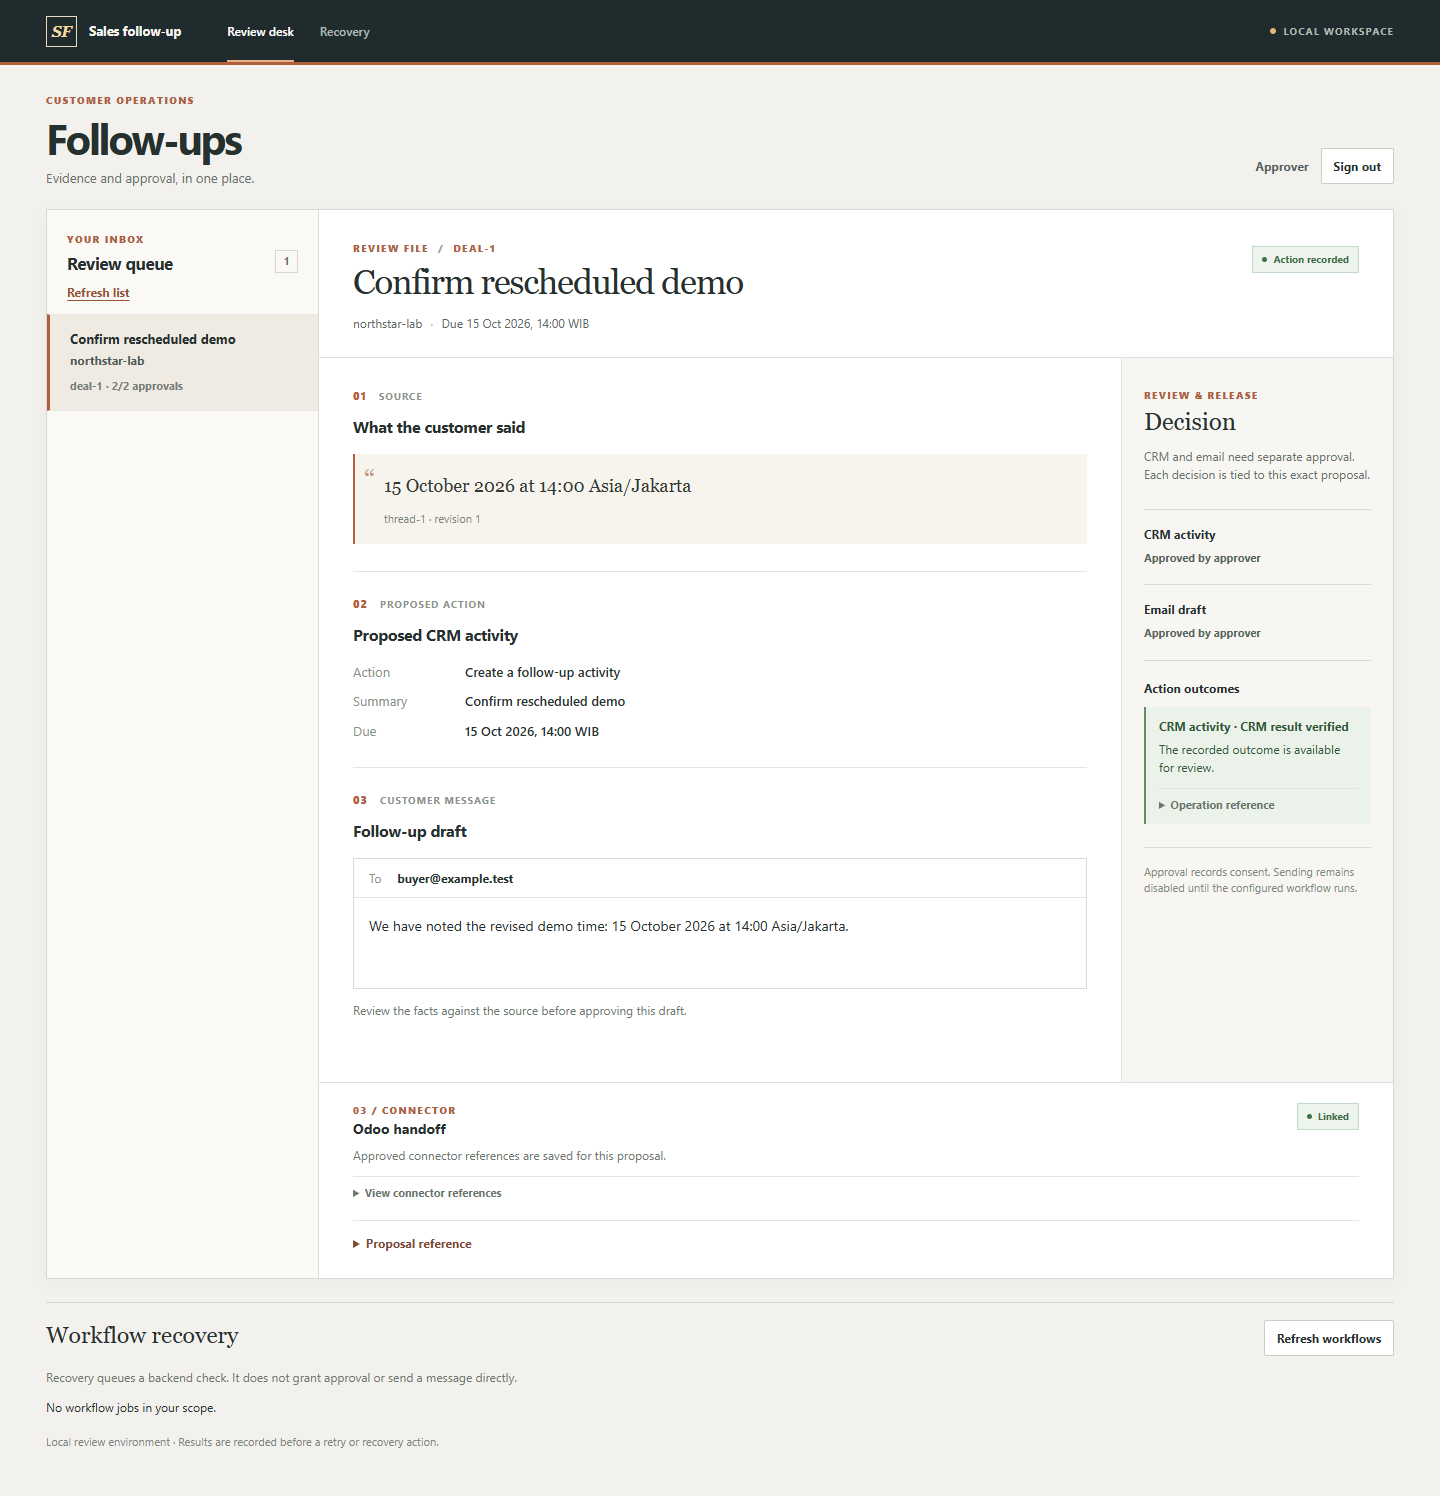
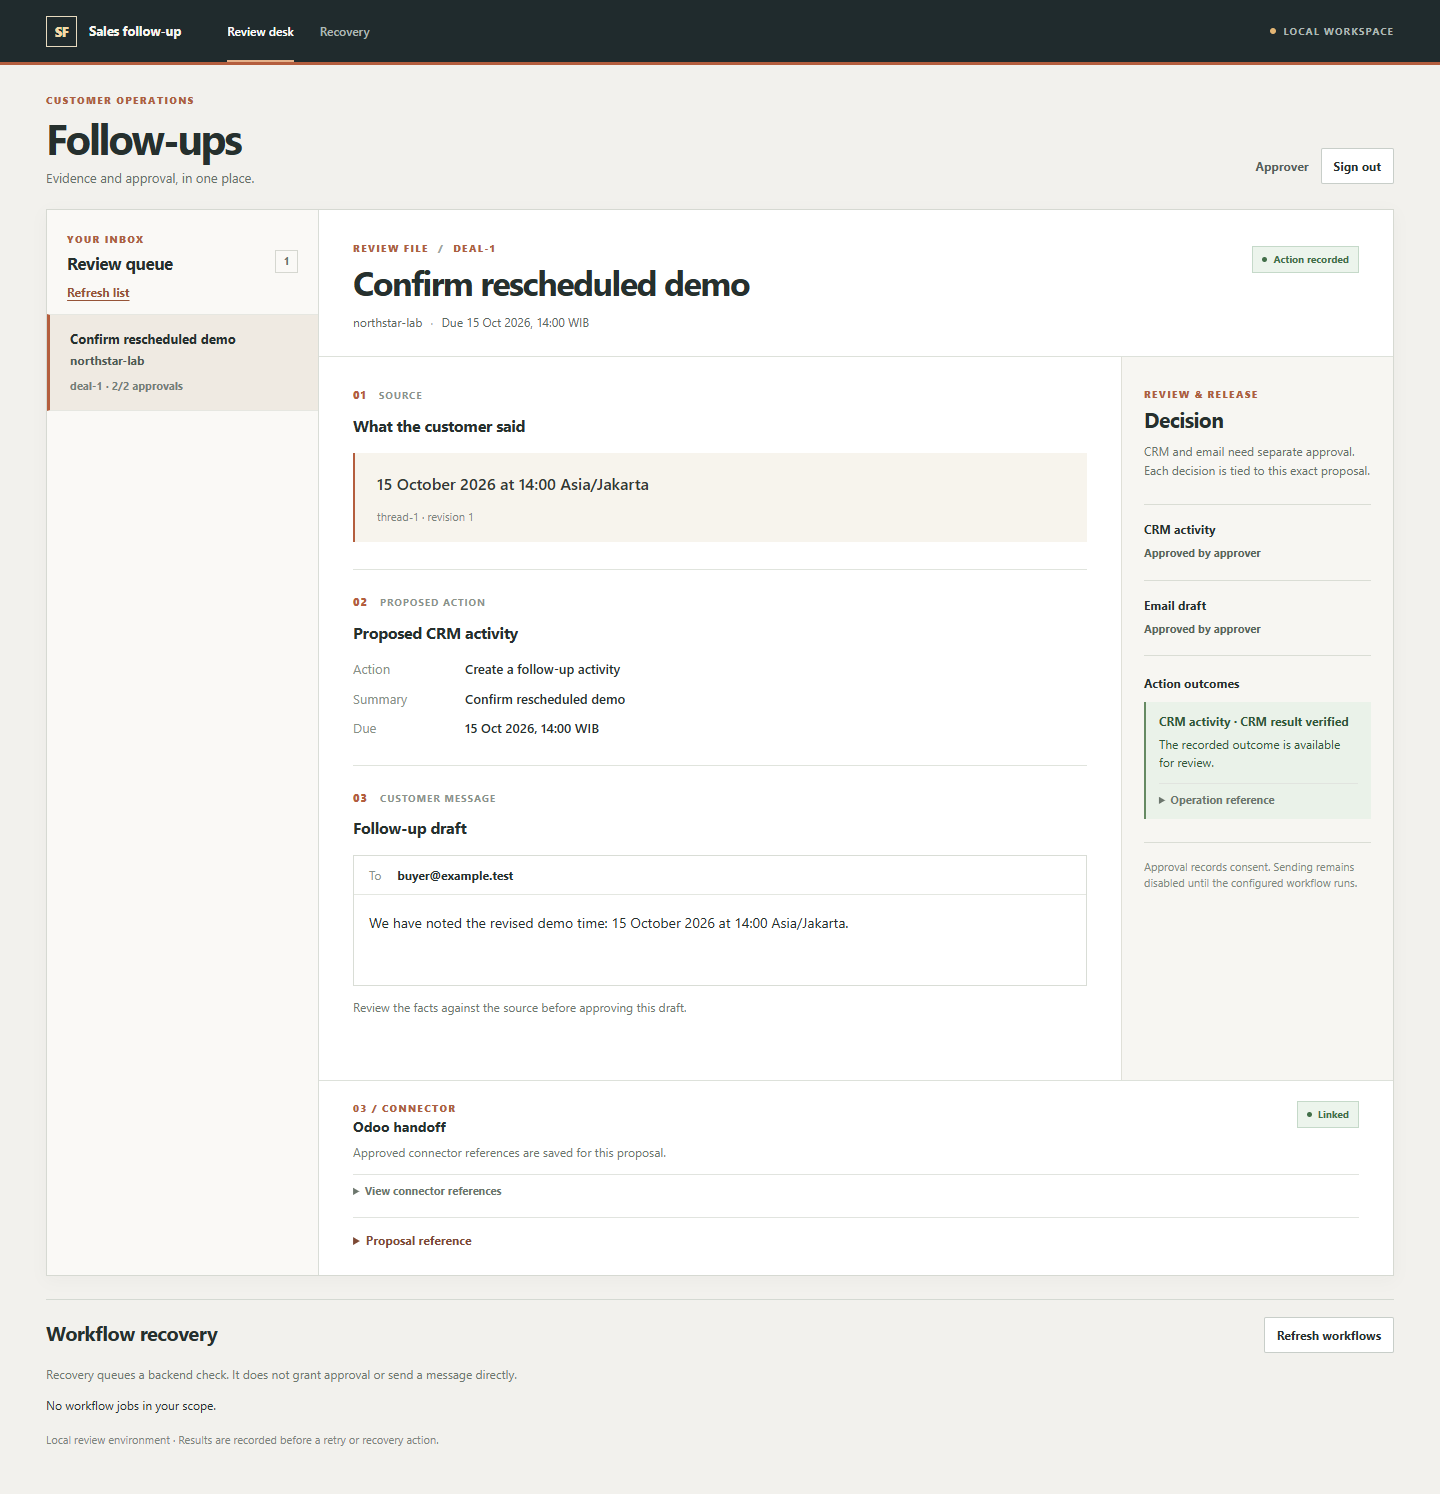
Use formal sans-serif typography in review workspace

diff --git a/web/src/style.css b/web/src/style.css
@@ -19,7 +19,7 @@ h1, h2, h3 { line-height: 1.18; }
 .topbar { background: #202b2d; color: #f8f5ee; border-bottom: 3px solid #b45e3e; }
 .topbar-inner { max-width: 1680px; height: 62px; margin: auto; padding: 0 clamp(20px, 3.2vw, 56px); display: flex; align-items: center; gap: 46px; }
 .brand { display: flex; align-items: center; gap: 12px; font-size: 13px; font-weight: 720; white-space: nowrap; letter-spacing: -.01em; }
-.brandmark { display: grid; place-items: center; width: 31px; height: 31px; border: 1px solid #e8dbbf; color: #f3d9a7; font-family: Georgia, serif; font-size: 15px; font-style: italic; line-height: 1; }
+.brandmark { display: grid; place-items: center; width: 31px; height: 31px; border: 1px solid #e8dbbf; color: #f3d9a7; font-size: 13px; font-weight: 800; letter-spacing: -.04em; line-height: 1; }
 .topnav { height: 100%; display: flex; align-items: stretch; gap: 26px; }
 .topnav a { display: flex; align-items: center; border-bottom: 2px solid transparent; padding: 2px 0 0; text-decoration: none; color: #aeb9b5; font-size: 12px; font-weight: 600; }
 .topnav a:hover, .topnav a.active { color: #fff; border-bottom-color: #e4b18a; }
@@ -59,7 +59,7 @@ textarea { resize: vertical; }
 .primary:hover { background: #783020; border-color: #783020; color: #fff; }
 .case-panel { min-width: 0; }
 .case-heading { min-height: 132px; display: flex; align-items: start; justify-content: space-between; gap: 20px; padding: 31px 34px 25px; border-bottom: 1px solid #dde1da; }
-.case-heading h2 { margin: 0 0 11px; font-family: Georgia, "Times New Roman", serif; font-size: clamp(26px, 2.6vw, 35px); font-weight: 500; letter-spacing: -.035em; }
+.case-heading h2 { margin: 0 0 11px; font-size: clamp(26px, 2.6vw, 34px); font-weight: 680; letter-spacing: -.045em; }
 .case-heading .eyebrow span { color: #9da69e; padding: 0 5px; }
 .case-account { margin: 0; color: #5c685f; font-size: 12px; }
 .case-account span { padding: 0 5px; color: #a5aca4; }
@@ -74,9 +74,8 @@ textarea { resize: vertical; }
 .section-kicker { display: flex; align-items: center; gap: 12px; margin-bottom: 13px; color: #b45e3e; font-size: 11px; font-weight: 800; letter-spacing: .08em; }
 .section-kicker span { color: #8b938c; font-size: 10px; font-weight: 700; text-transform: uppercase; }
 .case-content h3 { margin: 0 0 17px; font-size: 16px; font-weight: 720; letter-spacing: -.018em; }
-blockquote { position: relative; margin: 0; padding: 19px 23px 17px 29px; background: #f7f4ed; border-left: 2px solid #b45e3e; }
-blockquote::before { content: '“'; position: absolute; left: 9px; top: 12px; color: #be977b; font-family: Georgia, serif; font-size: 27px; line-height: 1; }
-blockquote p { margin: 0; color: #333934; font-family: Georgia, "Times New Roman", serif; font-size: 18px; line-height: 1.4; }
+blockquote { margin: 0; padding: 19px 22px 17px; background: #f7f4ed; border-left: 2px solid #b45e3e; }
+blockquote p { margin: 0; color: #333934; font-size: 16px; font-weight: 550; line-height: 1.5; }
 blockquote footer { margin-top: 13px; color: #7c857d; font-size: 11px; }
 dl { display: grid; grid-template-columns: 98px minmax(0, 1fr); gap: 10px 14px; margin: 0; font-size: 13px; }
 dt { color: #879087; }
@@ -90,7 +89,7 @@ dd { margin: 0; font-weight: 630; }
 .email-section>.muted { margin-bottom: 0; }
 .decision-panel { padding: 30px 22px; border-left: 1px solid #e0e0d8; background: #f7f6f2; }
 .decision-panel>.eyebrow { margin-bottom: 5px; }
-.decision-panel>h3 { margin: 0 0 10px; font-family: Georgia, serif; font-size: 24px; font-weight: 500; }
+.decision-panel>h3 { margin: 0 0 10px; font-size: 21px; font-weight: 680; letter-spacing: -.025em; }
 .decision-intro { margin: 0 0 25px; color: #68726a; font-size: 12px; line-height: 1.55; }
 .decision-item { padding: 15px 0 18px; border-top: 1px solid #daddd5; }
 .decision-name { margin: 0 0 7px; font-size: 12px; font-weight: 760; }
@@ -126,16 +125,16 @@ summary { cursor: pointer; color: #7d4935; font-weight: 700; }
 .binding-details>div { display: grid; grid-template-columns: 140px minmax(0, 1fr); gap: 10px; padding: 7px 0; border-bottom: 1px solid #e5e8e2; }
 .binding-details dd { min-width: 0; overflow-wrap: anywhere; }
 .login { max-width: 450px; margin: 55px auto 85px; padding: 30px; border: 1px solid #d7dcd5; background: #fff; }
-.login h2 { margin: 0 0 10px; font-family: Georgia, serif; font-size: 27px; font-weight: 500; }
+.login h2 { margin: 0 0 10px; font-size: 27px; font-weight: 680; letter-spacing: -.035em; }
 .login p:not(.eyebrow) { color: #677168; font-size: 13px; }
 .login .primary { width: 100%; }
 .placeholder { padding: 95px 42px; }
-.placeholder h2 { margin: 0 0 10px; font-family: Georgia, serif; font-size: 31px; font-weight: 500; }
+.placeholder h2 { margin: 0 0 10px; font-size: 30px; font-weight: 680; letter-spacing: -.035em; }
 .placeholder p:last-child { color: #747d75; font-size: 13px; }
 .workflow-panel, section[aria-label="Conversation intake"] { margin-top: 16px; padding: 24px 28px; border: 1px solid #d9ddd6; background: #fff; }
 .workflow-panel { margin-top: 23px; padding: 17px 0 0; border: 0; border-top: 1px solid #d4d9d2; background: transparent; }
 .workflow-panel .sectiontitle { display: flex; align-items: center; justify-content: space-between; gap: 12px; }
-.workflow-panel h2, section[aria-label="Conversation intake"] h2 { margin: 0 0 5px; font-family: Georgia, serif; font-size: 23px; font-weight: 500; }
+.workflow-panel h2, section[aria-label="Conversation intake"] h2 { margin: 0 0 5px; font-size: 20px; font-weight: 680; letter-spacing: -.025em; }
 .workflow-panel p, section[aria-label="Conversation intake"] p { font-size: 12px; }
 .workflow-panel .approval { flex-direction: row; align-items: center; justify-content: space-between; padding: 15px 0; border-top: 1px solid #e2e6df; }
 .workflow-panel .approval button { flex: none; }
